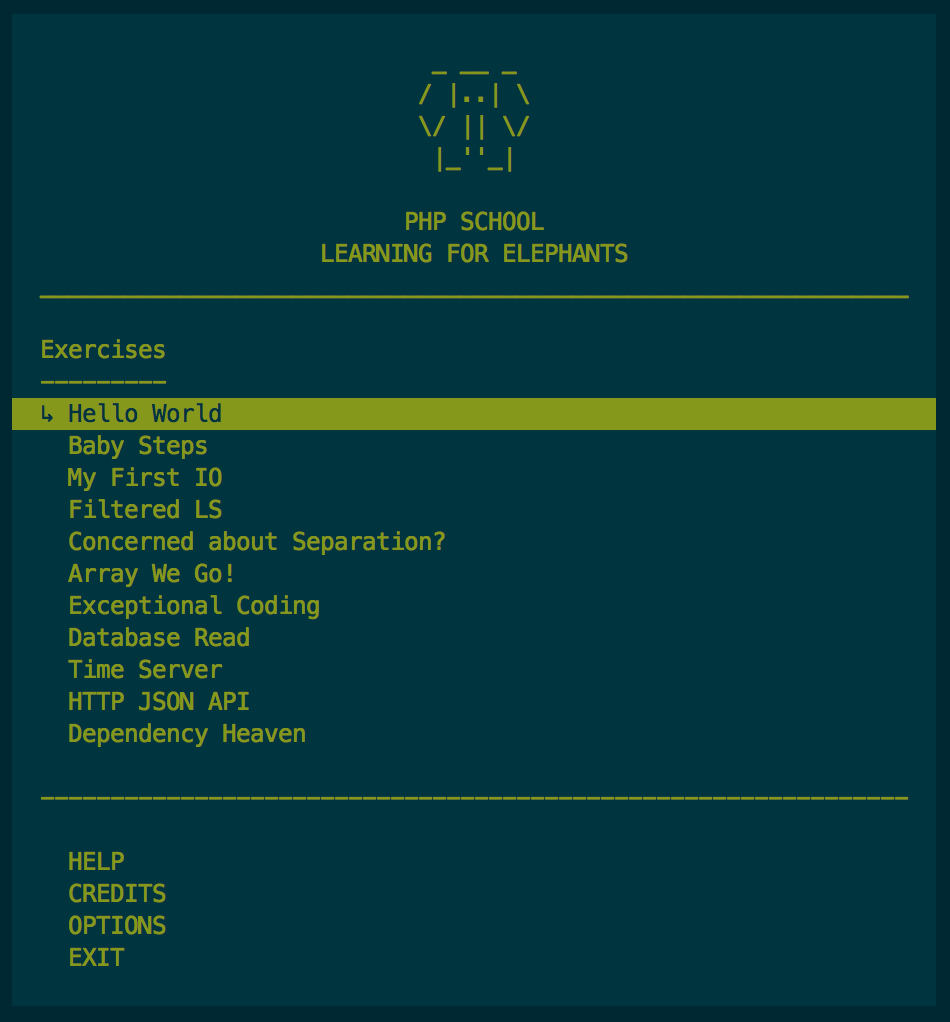
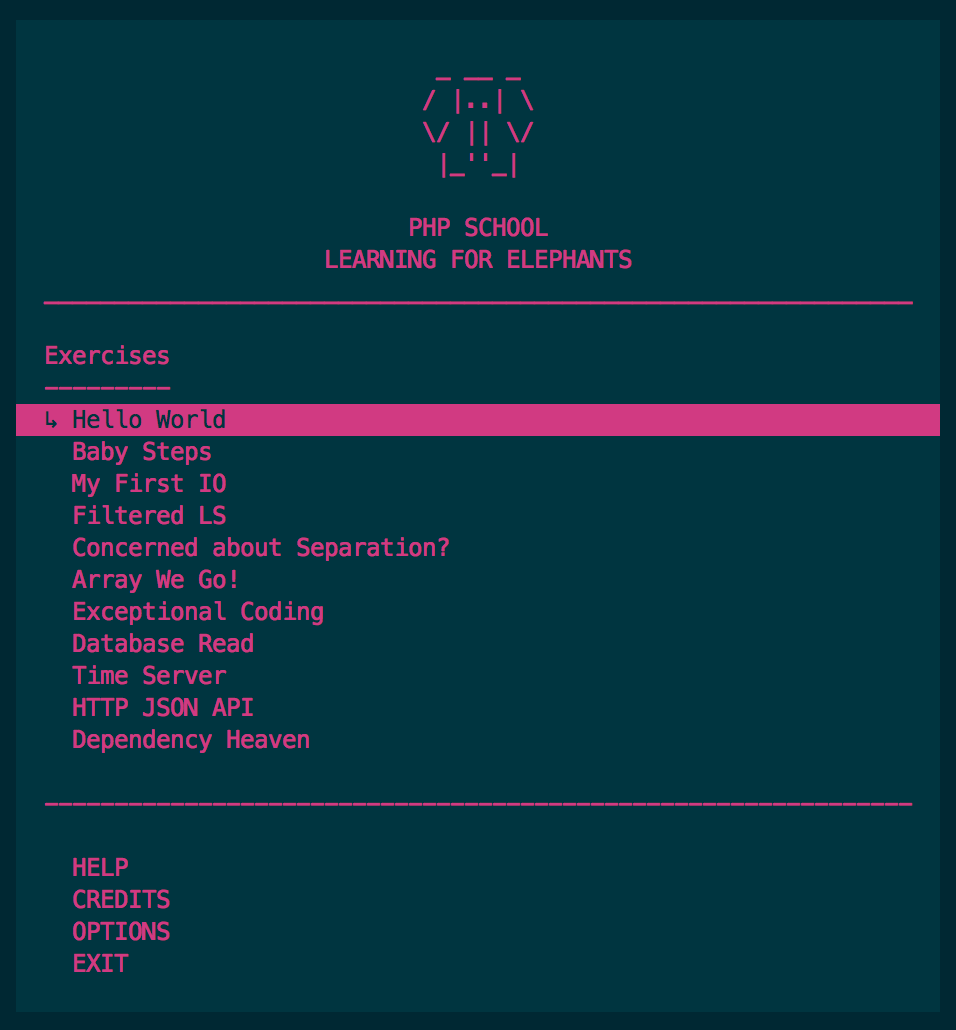
base colour changes

diff --git a/css/core.min.css b/css/core.min.css
@@ -1,1 +1,1 @@
-article,aside,details,figcaption,figure,footer,header,hgroup,menu,nav,section,video{display:block}body,h1,h2,h3{font-weight:100}a,body,li,p{line-height:1.5}.button,svg{display:inline-block}abbr,address,article,aside,audio,b,blockquote,body,canvas,caption,cite,code,dd,del,details,dfn,div,dl,dt,em,fieldset,figcaption,figure,footer,form,h1,h2,h3,h4,h5,h6,header,hgroup,html,i,iframe,img,ins,kbd,label,legend,li,mark,menu,nav,object,ol,p,pre,q,samp,section,small,span,strong,sub,summary,sup,table,tbody,td,tfoot,th,thead,time,tr,ul,var,video{margin:0;padding:0;border:0;outline:0;font-size:100%;vertical-align:baseline;background:0 0}ul{list-style:none}*{box-sizing:border-box}img{max-width:100%}video{width:100%}body{font-family:"Open Sans",sans-serif;color:#000}.team__name,.team__role,.terminal__body,h1,h2,h3{font-family:monospace}.container{max-width:1024px;margin:0 auto;padding:0 22px}a,h1,h2,h3,li,p{margin-bottom:22px}@media screen and (min-width:600px){.container{padding:0 11px}}h1,h2,h3{line-height:1;color:#003540}h1{font-size:36px}h2{font-size:28px}h3{font-size:18px;margin-bottom:11px}a,li,p{font-size:14px}a{color:#85981C;text-decoration:none}a:hover{text-decoration:underline}.button,.button:hover,.navigation__link{text-decoration:none}.button{padding:11px 22px;background:#85981C;color:#fff;text-transform:uppercase;margin:0;position:relative;-webkit-transition:ease all .3s;transition:ease all .3s}.button:hover{-webkit-transform:scale(1.05);transform:scale(1.05);background:#0e8fa0}.button:after,.button:before{content:'';background:inherit;height:43px;width:43px;top:0;border-radius:100%;position:absolute}.button:after{right:-15%}.button:before{left:-15%}[class*=" icon-"] span,[class^=icon-] span{position:absolute;left:-9999px}svg{fill:currentColor!important;vertical-align:middle}.navigation,.site-nav{display:-webkit-box;display:-webkit-flex;display:-ms-flexbox}svg.svg-icon{height:1em;width:1em;-webkit-transition:color ease .3s;transition:color ease .3s}svg.svg-icon:hover{color:#85981C}.site-nav{display:flex;-webkit-flex-wrap:wrap;-ms-flex-wrap:wrap;flex-wrap:wrap;-webkit-box-pack:justify;-webkit-justify-content:space-between;-ms-flex-pack:justify;justify-content:space-between;border-bottom:1px solid rgba(255,255,255,.2);padding:11px 0;margin-bottom:44px}@media screen and (min-width:600px){.site-nav{margin-bottom:88px}}.site-nav .svg-icon{width:1.5em;height:1.5em;color:#fff}.navigation{display:flex;padding-left:11px}.introduction,.navigation__item{display:-webkit-box;display:-webkit-flex;display:-ms-flexbox}.navigation__item{margin:0;padding-right:22px;display:flex;-webkit-box-align:center;-webkit-align-items:center;-ms-flex-align:center;align-items:center;-webkit-box-pack:center;-webkit-justify-content:center;-ms-flex-pack:center;justify-content:center}.navigation__link{color:#fff;margin-bottom:0}.site-header{text-align:center;background-image:url(../img/header-bg.jpg);background-size:600px;color:#fff;padding-bottom:44px}@media screen and (min-width:600px){.site-header{padding-bottom:88px}}.logo{margin-bottom:22px}.logo .svg-icon{height:11em;width:11em}.header__title{color:#fff}.header__desc{font-size:18px;margin:0 auto 33px;width:100%;max-width:450px}.curser{-webkit-animation:blink 1s infinite;animation:blink 1s infinite;display:block;margin:22px auto 0}.curser .svg-icon{width:1em;height:2em}@-webkit-keyframes blink{to{opacity:0}}@keyframes blink{to{opacity:0}}.introduction{display:flex;-webkit-flex-wrap:wrap;-ms-flex-wrap:wrap;flex-wrap:wrap;margin-left:-22px;padding:44px 0}.core-workshop,.terminal-head{display:-webkit-box;display:-webkit-flex;display:-ms-flexbox}.community-workshop,.core-workshop{-webkit-flex-wrap:wrap;border-top:1px solid #ccc}@media screen and (min-width:600px){.introduction{padding:88px 0}}.introduction__info{width:100%;padding-left:22px}@media screen and (min-width:600px){.introduction__info{width:50%}}.introduction__video{width:100%;padding-left:22px}@media screen and (min-width:600px){.introduction__video{width:50%}}.terminal{margin-bottom:22px}.terminal__body,.terminal__body p{margin-bottom:11px}.terminal-head{border:1px solid #ccc;border-top-right-radius:5px;border-top-left-radius:5px;position:relative;bottom:-1px;padding:5px;display:flex;background:#fcfcfc}.terminal__button{width:14px;height:14px;display:block;float:left;border-radius:100%;margin-right:11px;border:1px solid #ccc;background:#fff}.terminal__body{border-bottom-right-radius:5px;border-bottom-left-radius:5px;padding:11px;white-space:nowrap;overflow-x:scroll;background:#003540;color:#fff;-webkit-overflow-scrolling:touch}.terminal__body p:before{content:'$';margin-right:4px;color:#85981C;font-weight:700}.terminal__body p:last-child{margin:0}.terminal--image{padding:0}.termianl__meta{font-size:10px;color:#85981C}.core-workshop{display:flex;-ms-flex-wrap:wrap;flex-wrap:wrap;margin-left:-22px;padding:44px 0}.community-workshop,.help{display:-webkit-box;display:-webkit-flex;display:-ms-flexbox;margin-left:-22px;border-bottom:1px solid #ccc}.core-workshop__info{width:100%;padding-left:22px}@media screen and (min-width:600px){.core-workshop__info{width:33.33%}}.core-workshop__courses{width:100%;padding-left:22px}@media screen and (min-width:600px){.core-workshop__courses{width:66.66%}}.community-workshop{display:flex;-ms-flex-wrap:wrap;flex-wrap:wrap;padding:44px 0}.help,.team__list{-webkit-flex-wrap:wrap}.community-workshop__info{width:100%;padding-left:22px}@media screen and (min-width:600px){.community-workshop__info{width:33.33%}}.community-workshop__courses{width:100%;padding-left:22px}@media screen and (min-width:600px){.community-workshop__courses{width:66.66%}}.help{display:flex;-ms-flex-wrap:wrap;flex-wrap:wrap;padding:44px 0}.help__icons,.team{display:-webkit-box;display:-webkit-flex;display:-ms-flexbox}.help__icons{width:100%;padding-left:22px;display:flex;-webkit-box-align:center;-webkit-align-items:center;-ms-flex-align:center;align-items:center;-webkit-box-pack:center;-webkit-justify-content:center;-ms-flex-pack:center;justify-content:center;margin-bottom:22px}.help__icons .svg-icon{width:3em;height:3em;color:#000}@media screen and (min-width:600px){.help__icons{width:33.33%;margin-bottom:0}}.help__info{width:100%;padding-left:22px}.help__info p{margin-bottom:0}@media screen and (min-width:600px){.help__info{width:66.66%}}.team{color:#000;text-align:center;padding:44px 0;background:#fff;border-bottom:1px solid #ccc;display:flex;-webkit-box-orient:vertical;-webkit-box-direction:normal;-webkit-flex-direction:column;-ms-flex-direction:column;flex-direction:column;-webkit-box-align:center;-webkit-align-items:center;-ms-flex-align:center;align-items:center}.team__desc{max-width:700px;width:100%;margin:0 auto 44px}.team__list{margin-left:-22px;display:-webkit-box;display:-webkit-flex;display:-ms-flexbox;display:flex;-ms-flex-wrap:wrap;flex-wrap:wrap}.team__image{margin-bottom:11px;overflow:hidden}.team__item{padding-left:22px;width:50%}@media screen and (min-width:600px){.team__item{width:20%}}.team__item a{display:block;-webkit-transition:ease all .3s;transition:ease all .3s;color:inherit}.team__name{margin-bottom:5.5px}.team__role{margin-bottom:0;font-size:12px}.inspiration{padding:44px 0;background-color:#1a1a1a}.inspiration__content{display:-webkit-box;display:-webkit-flex;display:-ms-flexbox;display:flex;-webkit-flex-wrap:wrap;-ms-flex-wrap:wrap;flex-wrap:wrap;margin-left:-22px;color:#fff}.inspiration__title{color:#fff}.inspiration__image{padding-left:22px;width:100%;margin-bottom:22px;margin-left:auto;margin-right:auto;text-align:center}.inspiration__image img{display:block;margin:0 auto;width:30%}@media screen and (min-width:600px){.inspiration__image img{width:50%}.inspiration__image{width:33.33%;margin:0}}.inspiration__info{padding-left:22px;width:100%;text-align:center}@media screen and (min-width:600px){.inspiration__info{width:66.66%;text-align:left}.inspiration__link{position:relative;left:22px}}.social-nav{display:-webkit-box;display:-webkit-flex;display:-ms-flexbox;display:flex;-webkit-box-pack:center;-webkit-justify-content:center;-ms-flex-pack:center;justify-content:center}.social-nav__item{margin:0}.social-nav__link{display:block;margin:0;padding:11px;-webkit-transition:-webkit-transform ease .3s;transition:-webkit-transform ease .3s;transition:transform ease .3s;transition:transform ease .3s,-webkit-transform ease .3s}.social-nav__link:hover{-webkit-transform:scale(1.2);transform:scale(1.2)}.site-footer .svg-icon{width:1.5em;height:1.5em;color:#fff}.copyright{text-align:center;background:#000;padding:22px}.copyright__text{color:#ccc;margin-bottom:11px}
+article,aside,details,figcaption,figure,footer,header,hgroup,menu,nav,section,video{display:block}body,h1,h2,h3{font-weight:100}a,body,li,p{line-height:1.5}a,h1,h2,h3{color:#E91E63}.button,svg{display:inline-block}abbr,address,article,aside,audio,b,blockquote,body,canvas,caption,cite,code,dd,del,details,dfn,div,dl,dt,em,fieldset,figcaption,figure,footer,form,h1,h2,h3,h4,h5,h6,header,hgroup,html,i,iframe,img,ins,kbd,label,legend,li,mark,menu,nav,object,ol,p,pre,q,samp,section,small,span,strong,sub,summary,sup,table,tbody,td,tfoot,th,thead,time,tr,ul,var,video{margin:0;padding:0;border:0;outline:0;font-size:100%;vertical-align:baseline;background:0 0}ul{list-style:none}*{box-sizing:border-box}img{max-width:100%}video{width:100%}body{font-family:"Open Sans",sans-serif;color:#000}.team__name,.team__role,.terminal__body,h1,h2,h3{font-family:monospace}.container{max-width:1024px;margin:0 auto;padding:0 22px}a,h1,h2,h3,li,p{margin-bottom:22px}@media screen and (min-width:600px){.container{padding:0 11px}}h1,h2,h3{line-height:1}h1{font-size:36px}h2{font-size:28px}h3{font-size:18px;margin-bottom:11px}a,li,p{font-size:14px}a{text-decoration:none}a:hover{text-decoration:underline}.button,.button:hover,.navigation__link{text-decoration:none}.button{padding:11px 22px;background:#E91E63;color:#fff;text-transform:uppercase;margin:0;position:relative;-webkit-transition:ease all .3s;transition:ease all .3s}.button:hover{-webkit-transform:scale(1.05);transform:scale(1.05);background:#aa1145}.button:after,.button:before{content:'';background:inherit;height:43px;width:43px;top:0;border-radius:100%;position:absolute}.button:after{right:-15%}.button:before{left:-15%}[class*=" icon-"] span,[class^=icon-] span{position:absolute;left:-9999px}svg{fill:currentColor!important;vertical-align:middle}.navigation,.site-nav{display:-webkit-box;display:-webkit-flex;display:-ms-flexbox}svg.svg-icon{height:1em;width:1em;-webkit-transition:color ease .3s;transition:color ease .3s}svg.svg-icon:hover{color:#E91E63}.site-nav{display:flex;-webkit-flex-wrap:wrap;-ms-flex-wrap:wrap;flex-wrap:wrap;-webkit-box-pack:justify;-webkit-justify-content:space-between;-ms-flex-pack:justify;justify-content:space-between;border-bottom:1px solid rgba(255,255,255,.2);padding:11px 0;margin-bottom:44px}@media screen and (min-width:600px){.site-nav{margin-bottom:88px}}.site-nav .svg-icon{width:1.5em;height:1.5em;color:#fff}.navigation{display:flex;padding-left:11px}.introduction,.navigation__item{display:-webkit-box;display:-webkit-flex;display:-ms-flexbox}.navigation__item{margin:0;padding-right:22px;display:flex;-webkit-box-align:center;-webkit-align-items:center;-ms-flex-align:center;align-items:center;-webkit-box-pack:center;-webkit-justify-content:center;-ms-flex-pack:center;justify-content:center}.navigation__link{color:#fff;margin-bottom:0}.site-header{text-align:center;background-image:url(../img/header-bg.jpg);background-size:600px;color:#fff;padding-bottom:44px}@media screen and (min-width:600px){.site-header{padding-bottom:88px}}.logo{margin-bottom:22px}.logo .svg-icon{height:11em;width:11em}.header__title{color:#fff}.header__desc{font-size:18px;margin:0 auto 33px;width:100%;max-width:450px}.curser{-webkit-animation:blink 1s infinite;animation:blink 1s infinite;display:block;margin:22px auto 0}.curser .svg-icon{width:1em;height:2em}@-webkit-keyframes blink{to{opacity:0}}@keyframes blink{to{opacity:0}}.introduction{display:flex;-webkit-flex-wrap:wrap;-ms-flex-wrap:wrap;flex-wrap:wrap;margin-left:-22px;padding:44px 0}.core-workshop,.terminal-head{display:-webkit-box;display:-webkit-flex;display:-ms-flexbox}.community-workshop,.core-workshop{-webkit-flex-wrap:wrap;border-top:1px solid #ccc}@media screen and (min-width:600px){.introduction{padding:88px 0}}.introduction__info{width:100%;padding-left:22px}@media screen and (min-width:600px){.introduction__info{width:50%}}.introduction__video{width:100%;padding-left:22px}@media screen and (min-width:600px){.introduction__video{width:50%}}.terminal{margin-bottom:22px}.terminal__body,.terminal__body p{margin-bottom:11px}.terminal-head{border:1px solid #ccc;border-top-right-radius:5px;border-top-left-radius:5px;position:relative;bottom:-1px;padding:5px;display:flex;background:#fcfcfc}.terminal__button{width:14px;height:14px;display:block;float:left;border-radius:100%;margin-right:11px;border:1px solid #ccc;background:#fff}.terminal__body{border-bottom-right-radius:5px;border-bottom-left-radius:5px;padding:11px;white-space:nowrap;overflow-x:scroll;background:#003540;color:#fff;-webkit-overflow-scrolling:touch}.terminal__body p:before{content:'$';margin-right:4px;color:#E91E63;font-weight:700}.terminal__body p:last-child{margin:0}.terminal--image{padding:0}.termianl__meta{font-size:10px;color:#E91E63}.core-workshop{display:flex;-ms-flex-wrap:wrap;flex-wrap:wrap;margin-left:-22px;padding:44px 0}.community-workshop,.help{display:-webkit-box;display:-webkit-flex;display:-ms-flexbox;margin-left:-22px;border-bottom:1px solid #ccc}.core-workshop__info{width:100%;padding-left:22px}@media screen and (min-width:600px){.core-workshop__info{width:33.33%}}.core-workshop__courses{width:100%;padding-left:22px}@media screen and (min-width:600px){.core-workshop__courses{width:66.66%}}.community-workshop{display:flex;-ms-flex-wrap:wrap;flex-wrap:wrap;padding:44px 0}.help,.team__list{-webkit-flex-wrap:wrap}.community-workshop__info{width:100%;padding-left:22px}@media screen and (min-width:600px){.community-workshop__info{width:33.33%}}.community-workshop__courses{width:100%;padding-left:22px}@media screen and (min-width:600px){.community-workshop__courses{width:66.66%}}.help{display:flex;-ms-flex-wrap:wrap;flex-wrap:wrap;padding:44px 0}.help__icons,.team{display:-webkit-box;display:-webkit-flex;display:-ms-flexbox}.help__icons{width:100%;padding-left:22px;display:flex;-webkit-box-align:center;-webkit-align-items:center;-ms-flex-align:center;align-items:center;-webkit-box-pack:center;-webkit-justify-content:center;-ms-flex-pack:center;justify-content:center;margin-bottom:22px}.help__icons .svg-icon{width:3em;height:3em;color:#000}@media screen and (min-width:600px){.help__icons{width:33.33%;margin-bottom:0}}.help__info{width:100%;padding-left:22px}.help__info p{margin-bottom:0}@media screen and (min-width:600px){.help__info{width:66.66%}}.team{color:#000;text-align:center;padding:44px 0;background:#fff;border-bottom:1px solid #ccc;display:flex;-webkit-box-orient:vertical;-webkit-box-direction:normal;-webkit-flex-direction:column;-ms-flex-direction:column;flex-direction:column;-webkit-box-align:center;-webkit-align-items:center;-ms-flex-align:center;align-items:center}.team__desc{max-width:700px;width:100%;margin:0 auto 44px}.team__list{margin-left:-22px;display:-webkit-box;display:-webkit-flex;display:-ms-flexbox;display:flex;-ms-flex-wrap:wrap;flex-wrap:wrap}.team__image{margin-bottom:11px;overflow:hidden}.team__item{padding-left:22px;width:50%}@media screen and (min-width:600px){.team__item{width:20%}}.team__item a{display:block;-webkit-transition:ease all .3s;transition:ease all .3s;color:inherit}.team__name{margin-bottom:5.5px}.team__role{margin-bottom:0;font-size:12px}.inspiration{padding:44px 0;background-color:#1a1a1a}.inspiration__content{display:-webkit-box;display:-webkit-flex;display:-ms-flexbox;display:flex;-webkit-flex-wrap:wrap;-ms-flex-wrap:wrap;flex-wrap:wrap;margin-left:-22px;color:#fff}.inspiration__title{color:#fff}.inspiration__image{padding-left:22px;width:100%;margin-bottom:22px;margin-left:auto;margin-right:auto;text-align:center}.inspiration__image img{display:block;margin:0 auto;width:30%}@media screen and (min-width:600px){.inspiration__image img{width:50%}.inspiration__image{width:33.33%;margin:0}}.inspiration__info{padding-left:22px;width:100%;text-align:center}@media screen and (min-width:600px){.inspiration__info{width:66.66%;text-align:left}.inspiration__link{position:relative;left:22px}}.social-nav{display:-webkit-box;display:-webkit-flex;display:-ms-flexbox;display:flex;-webkit-box-pack:center;-webkit-justify-content:center;-ms-flex-pack:center;justify-content:center}.social-nav__item{margin:0}.social-nav__link{display:block;margin:0;padding:11px;-webkit-transition:-webkit-transform ease .3s;transition:-webkit-transform ease .3s;transition:transform ease .3s;transition:transform ease .3s,-webkit-transform ease .3s}.social-nav__link:hover{-webkit-transform:scale(1.2);transform:scale(1.2)}.site-footer .svg-icon{width:1.5em;height:1.5em;color:#fff}.copyright{text-align:center;background:#000;padding:22px}.copyright__text{color:#ccc;margin-bottom:11px}

diff --git a/scss/base.scss b/scss/base.scss
@@ -19,7 +19,7 @@ h1, h2, h3 {
   font-family: $header-font-family;
   font-weight: 100;
   margin-bottom: $base-spacing;
-  color: $purple;
+  color: $base-colour;
   font-weight: 100;
 
 }
@@ -44,7 +44,7 @@ p, li, a {
 }
 
 a {
-  color: $blue;
+  color: $secondary-colour;
   text-decoration: none;
 
   &:hover {
@@ -54,7 +54,7 @@ a {
 
 .button {
   padding: $half-spacing $base-spacing;
-  background: $blue;
+  background: $secondary-colour;
   color: $white;
   text-transform: uppercase;
   text-decoration: none;
@@ -65,7 +65,7 @@ a {
 
   &:hover {
     transform: scale(1.05);
-    background: darken(#10A4B7, 5);
+    background: darken($secondary-colour, 15);
     text-decoration: none;
   }
 
@@ -114,7 +114,7 @@ svg {
     transition: color ease .3s;
 
     &:hover {
-      color: $blue;
+      color: $secondary-colour;
     }
   }
 }

diff --git a/scss/terminal.scss b/scss/terminal.scss
@@ -53,7 +53,7 @@
     &:before {
       content: '$';
       margin-right: 4px;
-      color: $blue;
+      color: $secondary-colour;
       font-weight: bold;
     }
     &:last-child {
@@ -81,5 +81,5 @@
 
 .termianl__meta {
   font-size: 10px;
-  color: $blue;
+  color: $secondary-colour;
 }

diff --git a/scss/vars.scss b/scss/vars.scss
@@ -2,9 +2,10 @@ $black: #000000;
 $white: #ffffff;
 $silver: #cccccc;
 $yellow: #cccccc;
-$blue: #85981C;
 //$purple: #601848;
-$purple: #003540;
+//$base-colour: #003540;
+$base-colour: #E91E63;
+$secondary-colour: #E91E63;
 
 $terminalBg: #003540;
 
